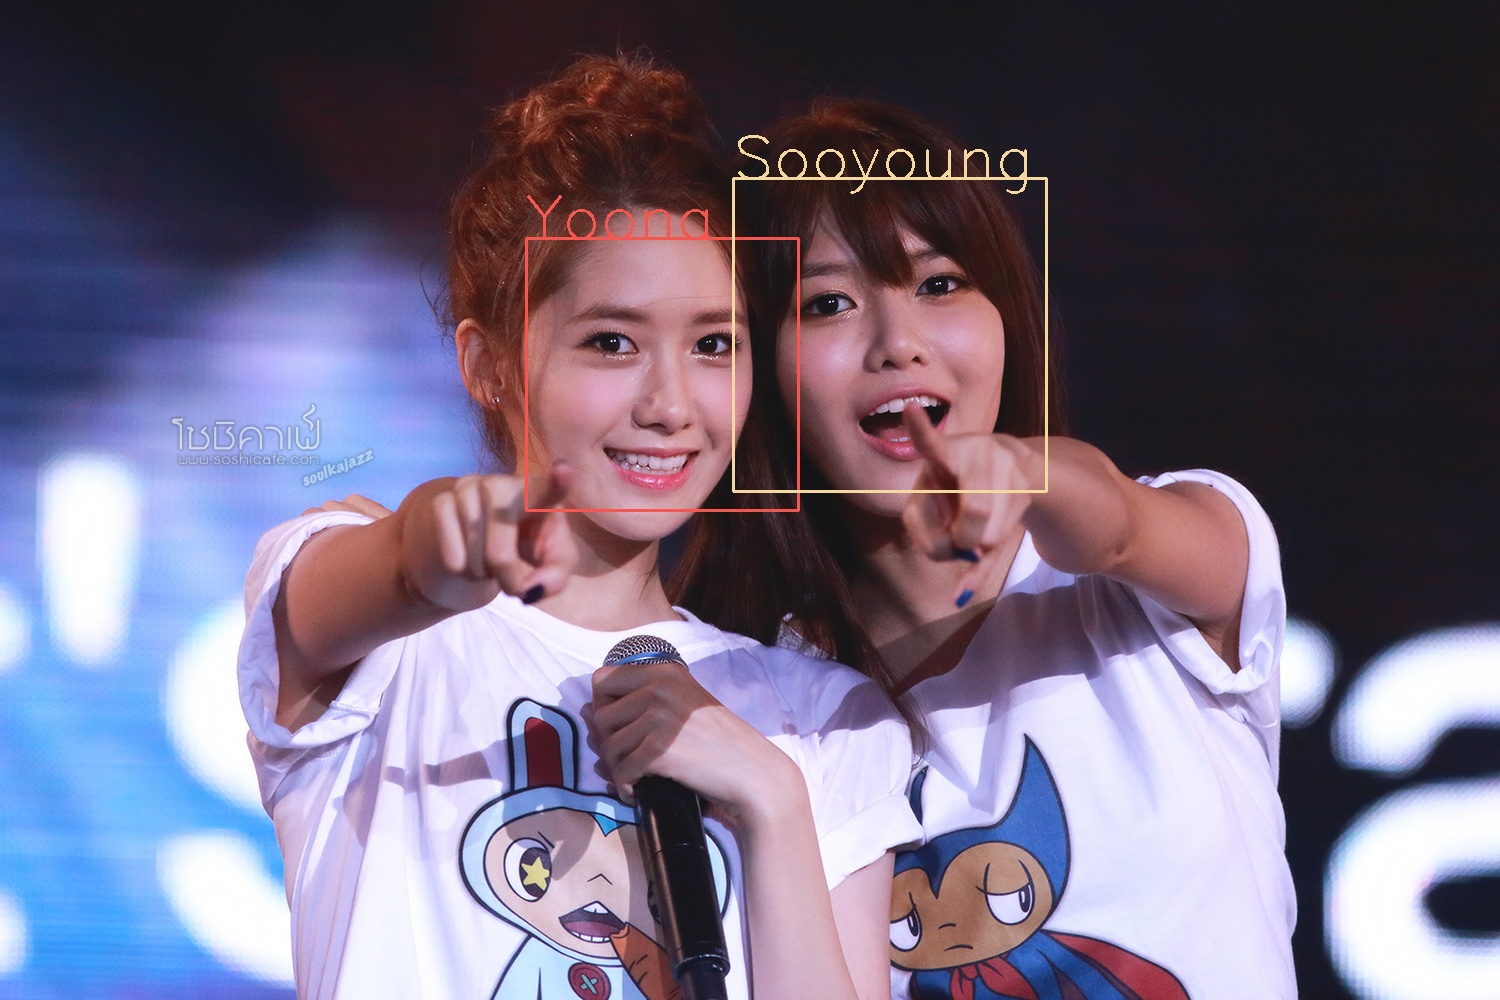
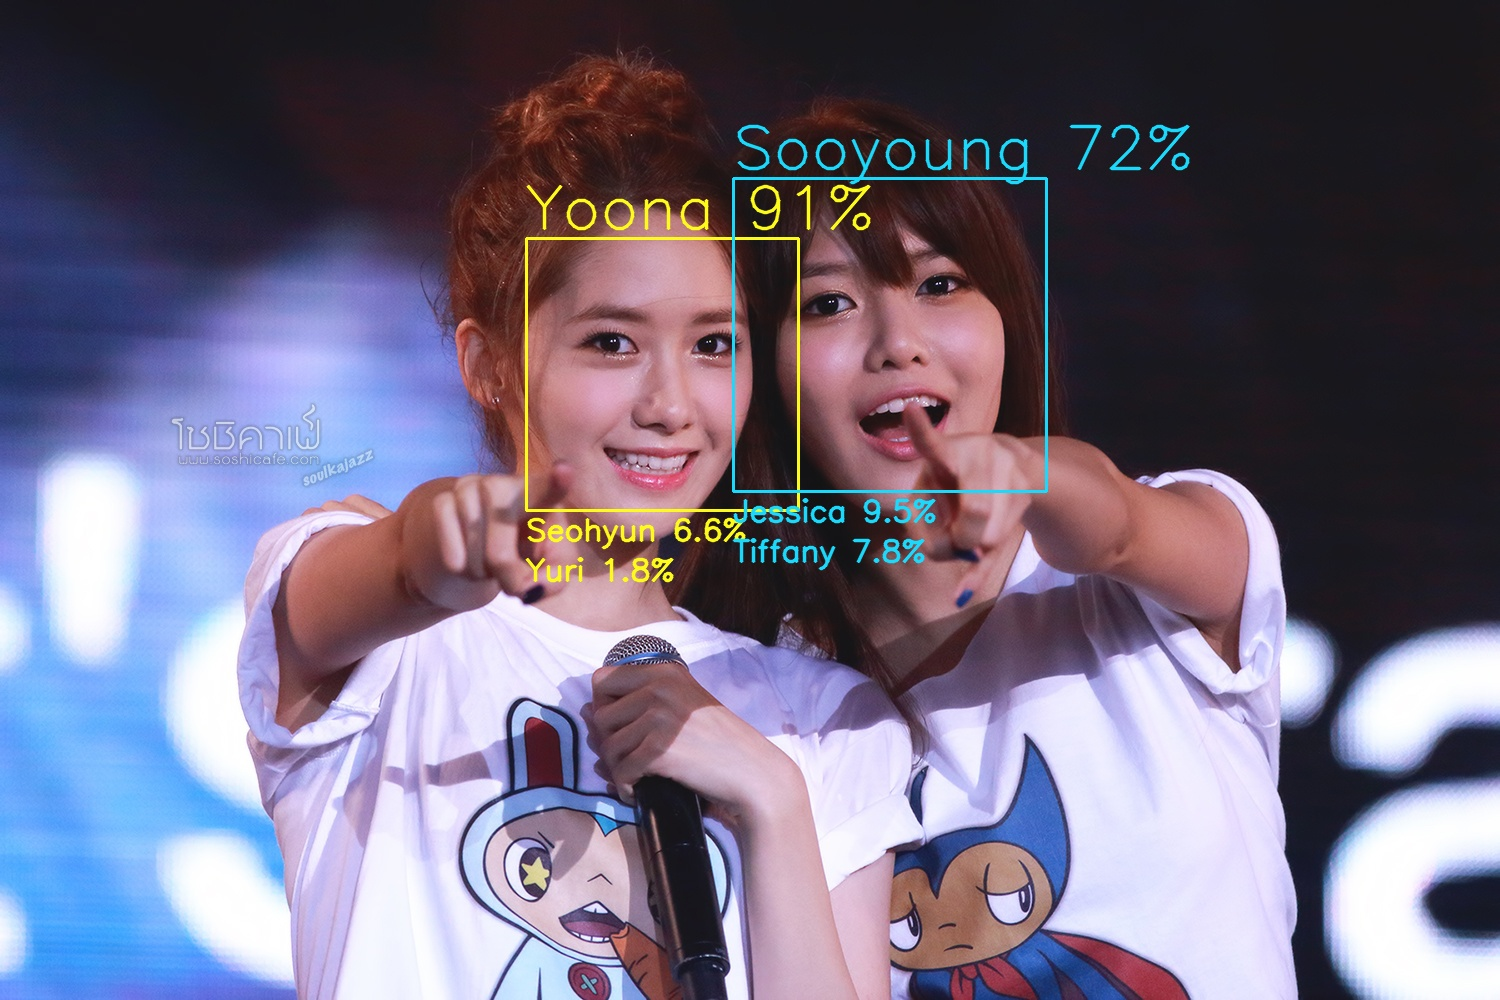
README更新

Changed region(s): [[0.3373, 0.124, 0.7973, 0.589], [0.5213, 0.279, 0.552, 0.434]]

diff --git a/README.md b/README.md
@@ -1,7 +1,7 @@
-#少女時代の顔を識別するためのプログラム
+#Caffeを使って少女時代の顔を識別するためのプログラム
 * Cifar10で少女時代のメンバーを学習。  
 * このプログラムは`caffe/examples/cifar10/`上で動作させることを想定
-* 学習器の設定はこのレポジトリにある`snsd_cifar10_quick.prototxt`、Caffeモデルは`snsd_cifar10_quick_iter_4000.caffemodel`を指定
+* 学習器の設定はこのレポジトリにある`snsd_cifar10_full.prototxt`、Caffeモデルは`snsd_cifar10_full_150717_iter_60000.caffemodel`を指定
 * 平均画像ファイルは`snsd_mean.binaryproto`
 
 ##snsd_classify.py
@@ -18,7 +18,8 @@ python snsd_classify.py src.jpg
 ##snsd_facedetection.py
 * OpenCVで入力画像から顔検出
 * そのあと切り出した画像から、分類器にかける
-* 一番確率の高かったメンバー名を画像に書きこむ
+* 1番確率の高かったメンバー名を画像に書きこむ
+* 2番目，3番目の候補も下に表示
 
 ###実行方法
 ```bash
@@ -26,9 +27,30 @@ cd python
 python snsd_facedetection.py src.jpg output.jpg
 ```
 
+実行すると「Show Image」と書かれたウィンドウが出現し，結果が可視化される．  
+この結果を保存したかったらウィンドウ上で`s`キーを押す．保存したくなかったら`s`以外のキーを押すとプログラムが終了．
+
 ###実行結果
+この結果は**データの水増し，Dropoutあり（後述）**の手法で学習させた結果です．
+
 ![yoona_sooyoung.jpg](success_img/yoona_sooyoung.jpg)
 
+##Dropoutをいれた
+Cifar10のモデルをそのまま使ったら，過学習が起きたので，これを軽減させるために，データをランダムにクロップして学習につかったり，画像を左右反転させたり，データの水増しをした．
+あとDropoutと呼ばれるブロックを追加した．
+このモデルは[dropout](https://github.com/Ry0/snsd_classify/tree/dropout)ブランチにそれ用の`.prototxt`があります．
+
+###ノーマル
+* バリバリ過学習が起きてる．
+* テストデータに関する精度も77%程度
+
+![overtraining.png](plot/overtraining/overtraining.png)
+
+###データの水増し，Dropoutあり
+* 過学習が抑えられている！！
+* テストデータに関する精度も82%とノーマルのときよりも精度向上＼(^o^)／
+
+![dropout.png](plot/dropout/dropout.png)
 
 
 
